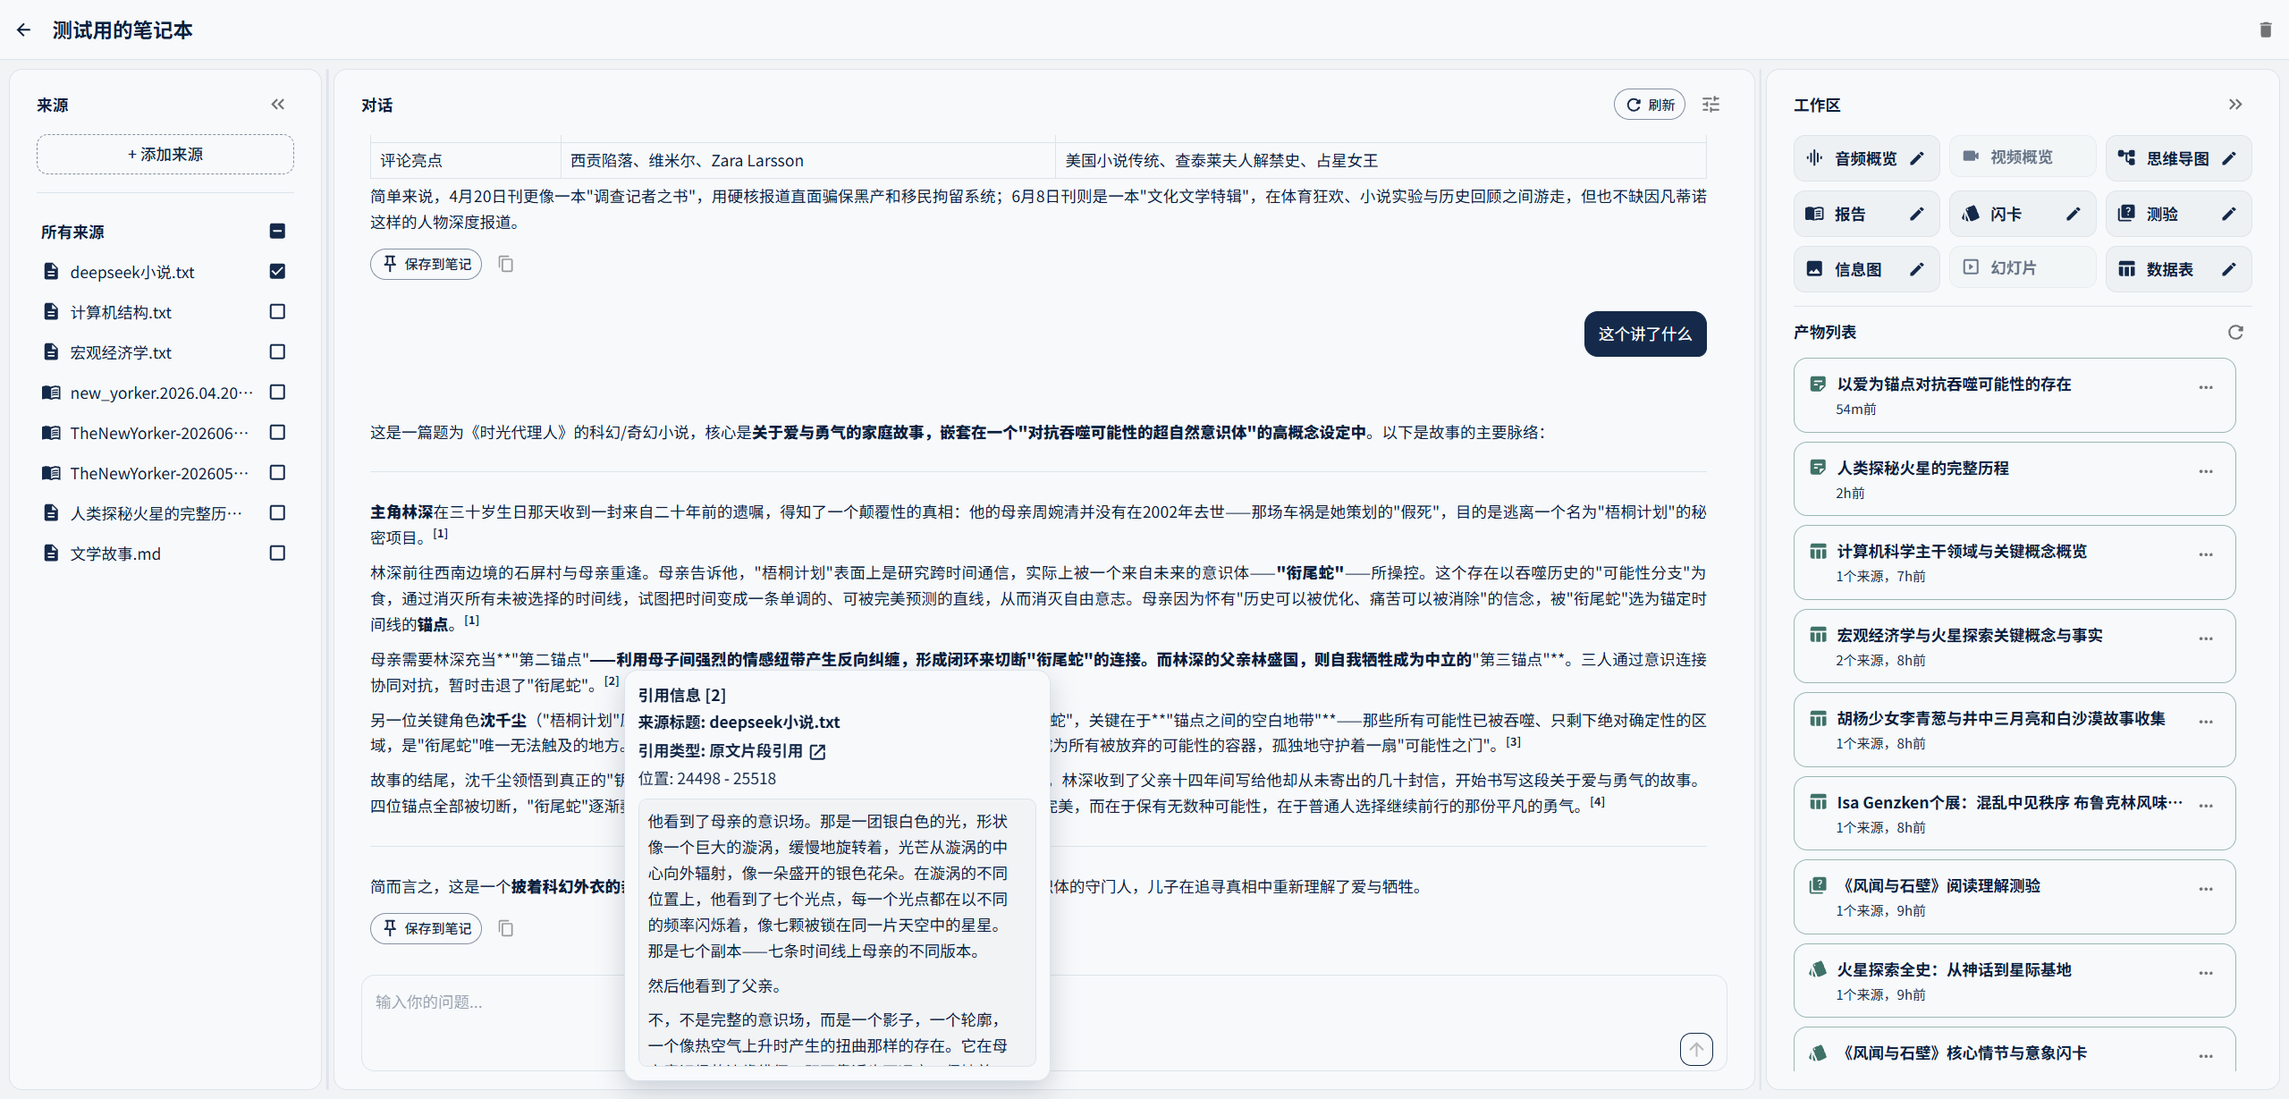
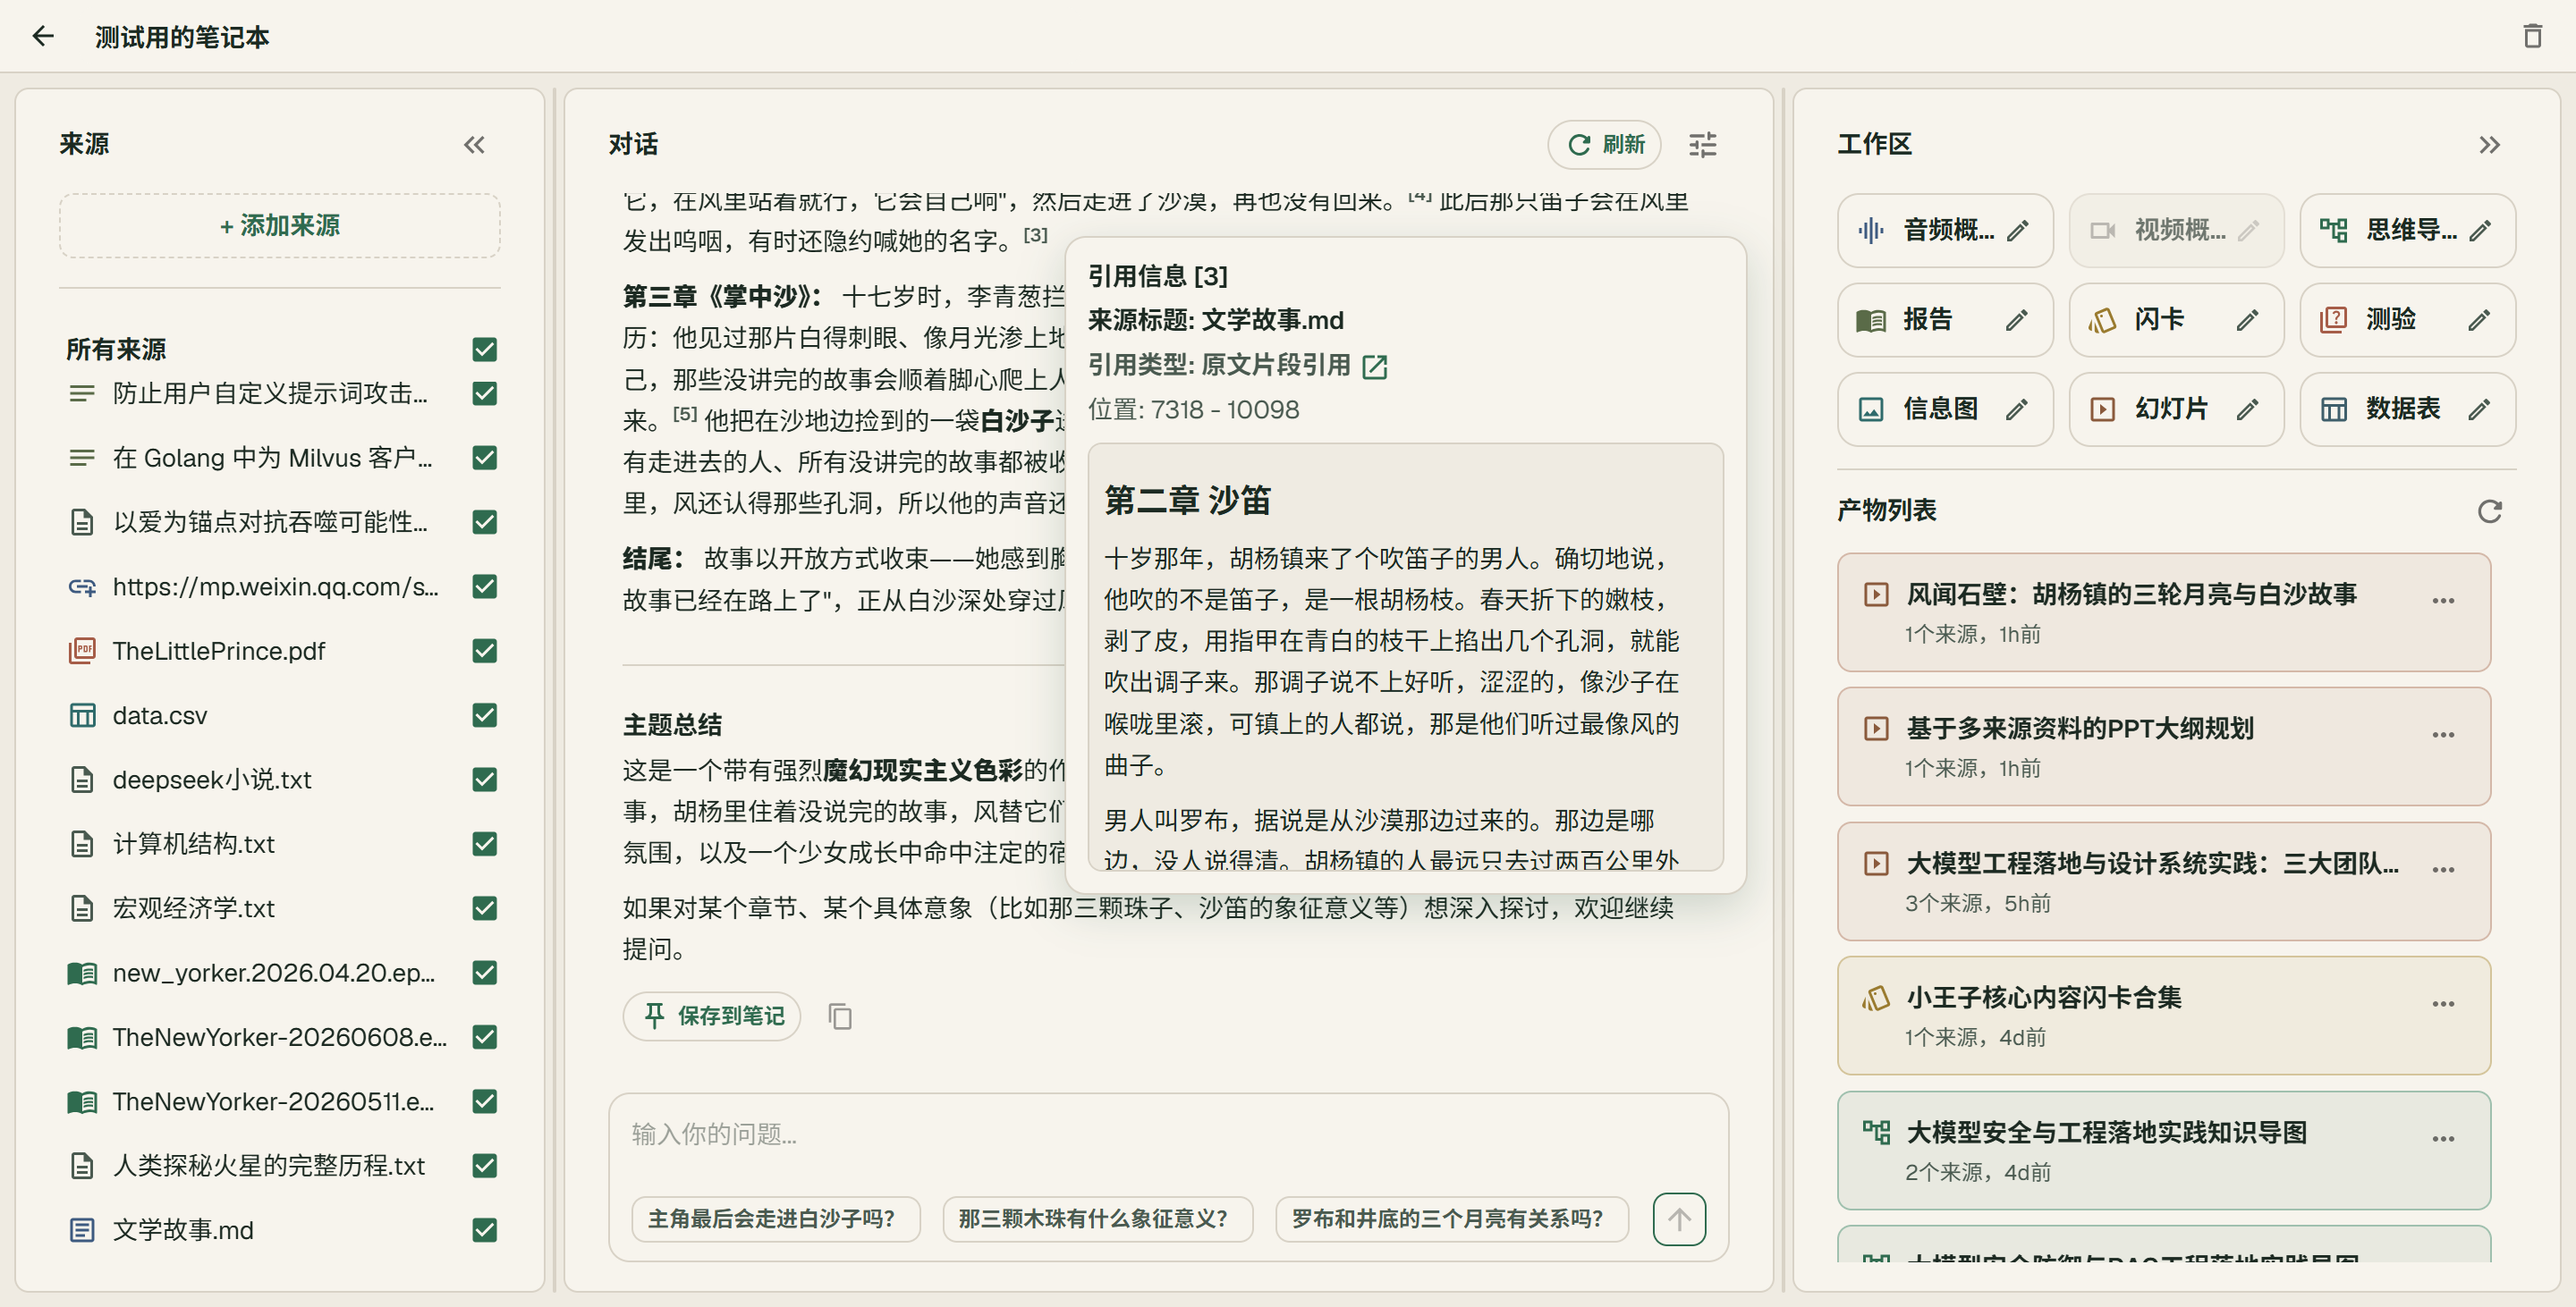
chore: update readme

diff --git a/README.md b/README.md
@@ -63,7 +63,10 @@ GoNoteLM is an AI-powered learning and knowledge-management platform. Create not
         <img src="docs/readme/studio-datatable.png" alt="Studio Data Table" width="320" /><br />
         <sub>Data Table</sub>
       </td>
-      <td></td>
+      <td align="center" valign="top">
+        <img src="docs/readme/studio-slides.png" alt="Studio Slides" width="320" /><br />
+        <sub>Slides</sub>
+      </td>
       <td></td>
     </tr>
   </tbody>
